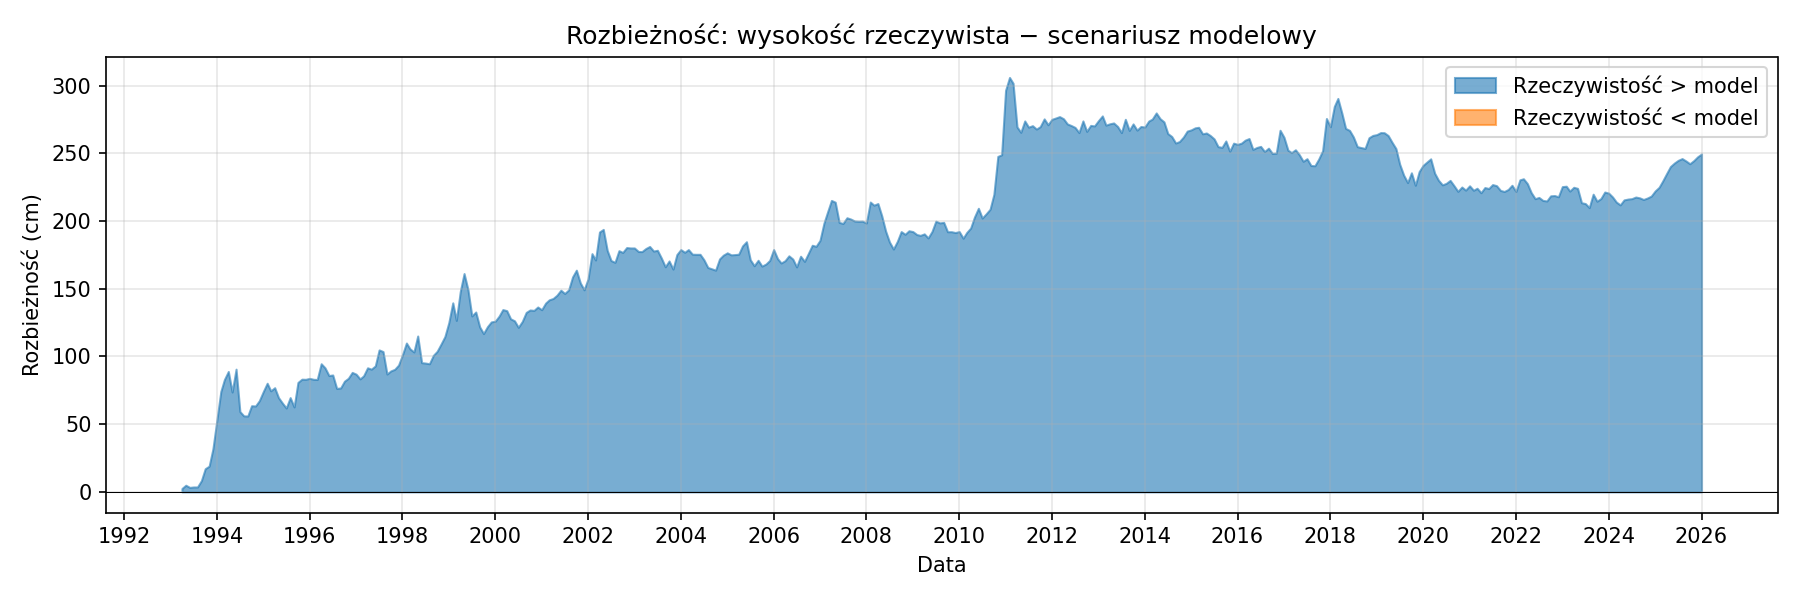
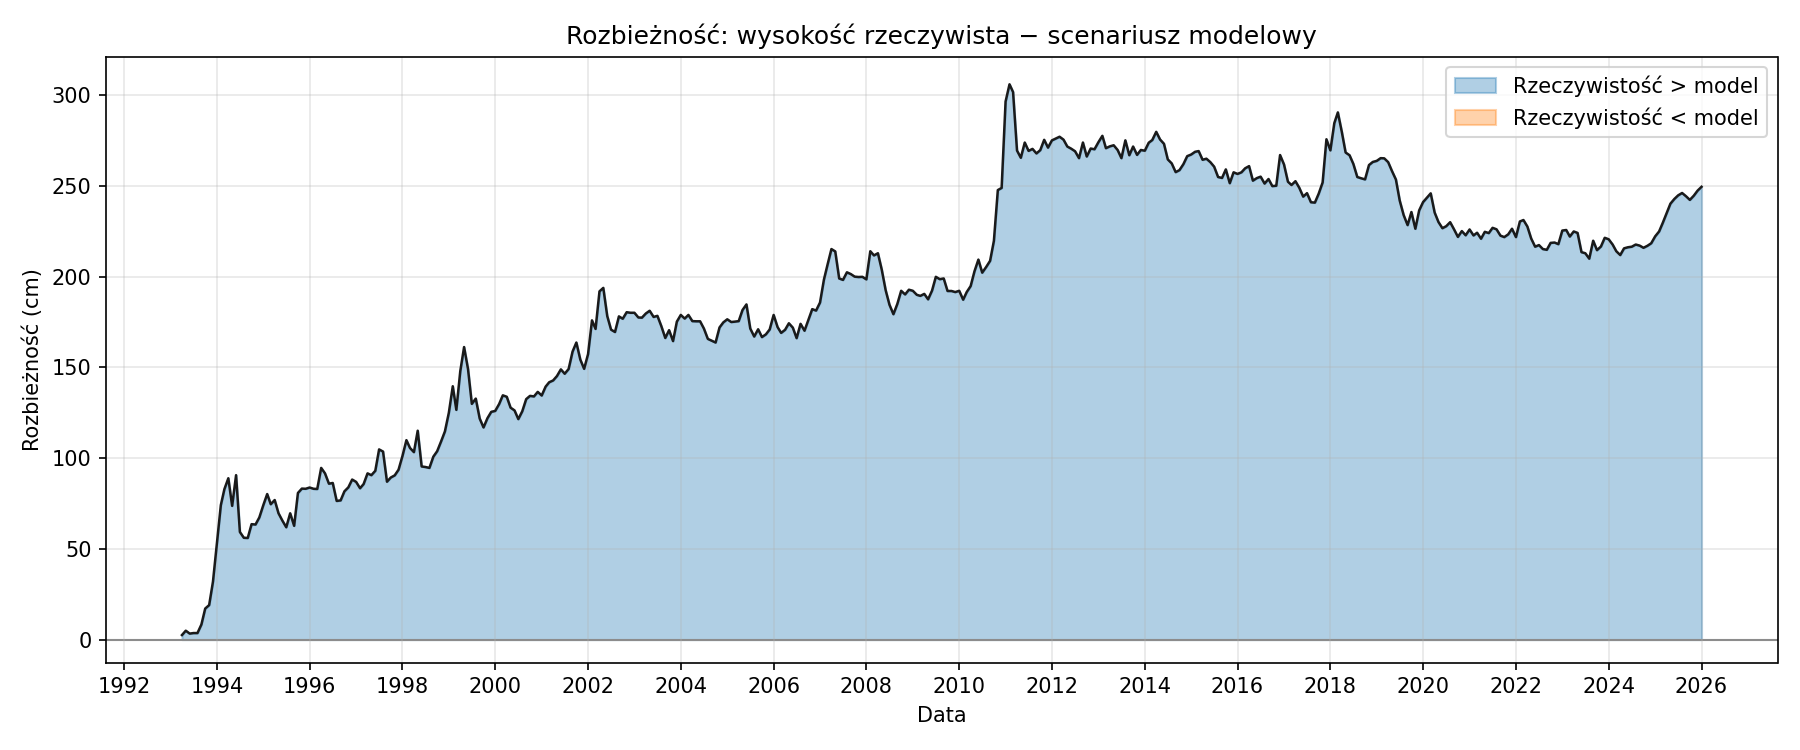
2026.02.15

diff --git a/index.html b/index.html
@@ -1930,7 +1930,7 @@ python sources/lake.py wilczynskie
 <li>Scenariusz kumulatywny (wysokość z prognozowanej zmiany) jest porównywany z rzeczywistą wysokością; rozbieżność i błąd miesięczny opisują jakość prognoz.</li>
 </ul>
 <p>Szczegóły techniczne: <a href="../model.md">model.md</a>, <a href="podsumowanie_ewaluacji.md">podsumowanie_ewaluacji.md</a>.</p>
-<p><em>Wygenerowano: 2026-02-15 15:38</em></p></div></div>
+<p><em>Wygenerowano: 2026-02-15 15:54</em></p></div></div>
 <div id="docs-budzislawskie-podsumowanie-ewaluacji" class="panel" style="display:none"><div class="content-inner"><h1>Podsumowanie ewaluacji prognozy zmiany poziomu Jezioro Budzisławskie</h1>
 <p>Dla każdego miesiąca model otrzymuje opad i temperaturę (oraz cechy opóźnione z historii), wylicza prognozowaną zmianę poziomu Jezioro Budzisławskie i jest ona porównana z faktyczną zmianą.</p>
 <h2>Metryki</h2>
@@ -6314,7 +6314,7 @@ python sources/lake.py wilczynskie
 </tr>
 </tbody>
 </table>
-<p><em>Wygenerowano: 2026-02-15 15:44</em></p></div></div>
+<p><em>Wygenerowano: 2026-02-15 15:54</em></p></div></div>
 <div id="docs-budzislawskie-drenaz-miesieczny" class="panel" style="display:none"><div class="content-inner"><h1>Drenaż – Jezioro Budzisławskie</h1>
 <p>Drenaż = poziom z modelu naturalnego (bez drenażu) − poziom rzeczywisty. Przyrost = o ile wzrósł drenaż względem poprzedniego miesiąca.</p>
 <p><img alt="Suma przyrostu drenażu wg roku" src="docs/budzislawskie/drenaz_miesieczny.png" /></p>
@@ -8000,7 +8000,7 @@ python sources/lake.py wilczynskie
 <li>Scenariusz kumulatywny (wysokość z prognozowanej zmiany) jest porównywany z rzeczywistą wysokością; rozbieżność i błąd miesięczny opisują jakość prognoz.</li>
 </ul>
 <p>Szczegóły techniczne: <a href="../model.md">model.md</a>, <a href="podsumowanie_ewaluacji.md">podsumowanie_ewaluacji.md</a>.</p>
-<p><em>Wygenerowano: 2026-02-15 15:38</em></p></div></div>
+<p><em>Wygenerowano: 2026-02-15 15:54</em></p></div></div>
 <div id="docs-kozieglowskie-podsumowanie-ewaluacji" class="panel" style="display:none"><div class="content-inner"><h1>Podsumowanie ewaluacji prognozy zmiany poziomu Jezioro Koziegłowskie</h1>
 <p>Dla każdego miesiąca model otrzymuje opad i temperaturę (oraz cechy opóźnione z historii), wylicza prognozowaną zmianę poziomu Jezioro Koziegłowskie i jest ona porównana z faktyczną zmianą.</p>
 <h2>Metryki</h2>
@@ -11966,7 +11966,7 @@ python sources/lake.py wilczynskie
 </tr>
 </tbody>
 </table>
-<p><em>Wygenerowano: 2026-02-15 15:44</em></p></div></div>
+<p><em>Wygenerowano: 2026-02-15 15:54</em></p></div></div>
 <div id="docs-kozieglowskie-drenaz-miesieczny" class="panel" style="display:none"><div class="content-inner"><h1>Drenaż – Jezioro Koziegłowskie</h1>
 <p>Drenaż = poziom z modelu naturalnego (bez drenażu) − poziom rzeczywisty. Przyrost = o ile wzrósł drenaż względem poprzedniego miesiąca.</p>
 <p><img alt="Suma przyrostu drenażu wg roku" src="docs/kozieglowskie/drenaz_miesieczny.png" /></p>
@@ -13640,7 +13640,7 @@ python sources/lake.py wilczynskie
 <li>Scenariusz kumulatywny (wysokość z prognozowanej zmiany) jest porównywany z rzeczywistą wysokością; rozbieżność i błąd miesięczny opisują jakość prognoz.</li>
 </ul>
 <p>Szczegóły techniczne: <a href="../model.md">model.md</a>, <a href="podsumowanie_ewaluacji.md">podsumowanie_ewaluacji.md</a>.</p>
-<p><em>Wygenerowano: 2026-02-15 15:38</em></p></div></div>
+<p><em>Wygenerowano: 2026-02-15 15:54</em></p></div></div>
 <div id="docs-kownackie-podsumowanie-ewaluacji" class="panel" style="display:none"><div class="content-inner"><h1>Podsumowanie ewaluacji prognozy zmiany poziomu Jezioro Kownackie</h1>
 <p>Dla każdego miesiąca model otrzymuje opad i temperaturę (oraz cechy opóźnione z historii), wylicza prognozowaną zmianę poziomu Jezioro Kownackie i jest ona porównana z faktyczną zmianą.</p>
 <h2>Metryki</h2>
@@ -18002,7 +18002,7 @@ python sources/lake.py wilczynskie
 </tr>
 </tbody>
 </table>
-<p><em>Wygenerowano: 2026-02-15 15:44</em></p></div></div>
+<p><em>Wygenerowano: 2026-02-15 15:54</em></p></div></div>
 <div id="docs-kownackie-drenaz-miesieczny" class="panel" style="display:none"><div class="content-inner"><h1>Drenaż – Jezioro Kownackie</h1>
 <p>Drenaż = poziom z modelu naturalnego (bez drenażu) − poziom rzeczywisty. Przyrost = o ile wzrósł drenaż względem poprzedniego miesiąca.</p>
 <p><img alt="Suma przyrostu drenażu wg roku" src="docs/kownackie/drenaz_miesieczny.png" /></p>
@@ -19688,7 +19688,7 @@ python sources/lake.py wilczynskie
 <li>Scenariusz kumulatywny (wysokość z prognozowanej zmiany) jest porównywany z rzeczywistą wysokością; rozbieżność i błąd miesięczny opisują jakość prognoz.</li>
 </ul>
 <p>Szczegóły techniczne: <a href="../model.md">model.md</a>, <a href="podsumowanie_ewaluacji.md">podsumowanie_ewaluacji.md</a>.</p>
-<p><em>Wygenerowano: 2026-02-15 15:38</em></p></div></div>
+<p><em>Wygenerowano: 2026-02-15 15:54</em></p></div></div>
 <div id="docs-niedziegiel-podsumowanie-ewaluacji" class="panel" style="display:none"><div class="content-inner"><h1>Podsumowanie ewaluacji prognozy zmiany poziomu Jezioro Niedzięgiel</h1>
 <p>Dla każdego miesiąca model otrzymuje opad i temperaturę (oraz cechy opóźnione z historii), wylicza prognozowaną zmianę poziomu Jezioro Niedzięgiel i jest ona porównana z faktyczną zmianą.</p>
 <h2>Metryki</h2>
@@ -26294,7 +26294,7 @@ python sources/lake.py wilczynskie
 </tr>
 </tbody>
 </table>
-<p><em>Wygenerowano: 2026-02-15 15:44</em></p></div></div>
+<p><em>Wygenerowano: 2026-02-15 15:54</em></p></div></div>
 <div id="docs-niedziegiel-drenaz-miesieczny" class="panel" style="display:none"><div class="content-inner"><h1>Drenaż – Jezioro Niedzięgiel</h1>
 <p>Drenaż = poziom z modelu naturalnego (bez drenażu) − poziom rzeczywisty. Przyrost = o ile wzrósł drenaż względem poprzedniego miesiąca.</p>
 <p><img alt="Suma przyrostu drenażu wg roku" src="docs/niedziegiel/drenaz_miesieczny.png" /></p>
@@ -28048,7 +28048,7 @@ python sources/lake.py wilczynskie
 <li>Scenariusz kumulatywny (wysokość z prognozowanej zmiany) jest porównywany z rzeczywistą wysokością; rozbieżność i błąd miesięczny opisują jakość prognoz.</li>
 </ul>
 <p>Szczegóły techniczne: <a href="../model.md">model.md</a>, <a href="podsumowanie_ewaluacji.md">podsumowanie_ewaluacji.md</a>.</p>
-<p><em>Wygenerowano: 2026-02-15 15:38</em></p></div></div>
+<p><em>Wygenerowano: 2026-02-15 15:54</em></p></div></div>
 <div id="docs-ostrowskie-podsumowanie-ewaluacji" class="panel" style="display:none"><div class="content-inner"><h1>Podsumowanie ewaluacji prognozy zmiany poziomu Jezioro Ostrowskie</h1>
 <p>Dla każdego miesiąca model otrzymuje opad i temperaturę (oraz cechy opóźnione z historii), wylicza prognozowaną zmianę poziomu Jezioro Ostrowskie i jest ona porównana z faktyczną zmianą.</p>
 <h2>Metryki</h2>
@@ -32432,7 +32432,7 @@ python sources/lake.py wilczynskie
 </tr>
 </tbody>
 </table>
-<p><em>Wygenerowano: 2026-02-15 15:44</em></p></div></div>
+<p><em>Wygenerowano: 2026-02-15 15:54</em></p></div></div>
 <div id="docs-ostrowskie-drenaz-miesieczny" class="panel" style="display:none"><div class="content-inner"><h1>Drenaż – Jezioro Ostrowskie</h1>
 <p>Drenaż = poziom z modelu naturalnego (bez drenażu) − poziom rzeczywisty. Przyrost = o ile wzrósł drenaż względem poprzedniego miesiąca.</p>
 <p><img alt="Suma przyrostu drenażu wg roku" src="docs/ostrowskie/drenaz_miesieczny.png" /></p>
@@ -34118,7 +34118,7 @@ python sources/lake.py wilczynskie
 <li>Scenariusz kumulatywny (wysokość z prognozowanej zmiany) jest porównywany z rzeczywistą wysokością; rozbieżność i błąd miesięczny opisują jakość prognoz.</li>
 </ul>
 <p>Szczegóły techniczne: <a href="../model.md">model.md</a>, <a href="podsumowanie_ewaluacji.md">podsumowanie_ewaluacji.md</a>.</p>
-<p><em>Wygenerowano: 2026-02-15 15:38</em></p></div></div>
+<p><em>Wygenerowano: 2026-02-15 15:54</em></p></div></div>
 <div id="docs-powidzkie-podsumowanie-ewaluacji" class="panel" style="display:none"><div class="content-inner"><h1>Podsumowanie ewaluacji prognozy zmiany poziomu Jezioro Powidzkie</h1>
 <p>Dla każdego miesiąca model otrzymuje opad i temperaturę (oraz cechy opóźnione z historii), wylicza prognozowaną zmianę poziomu Jezioro Powidzkie i jest ona porównana z faktyczną zmianą.</p>
 <h2>Metryki</h2>
@@ -40702,7 +40702,7 @@ python sources/lake.py wilczynskie
 </tr>
 </tbody>
 </table>
-<p><em>Wygenerowano: 2026-02-15 15:45</em></p></div></div>
+<p><em>Wygenerowano: 2026-02-15 15:54</em></p></div></div>
 <div id="docs-powidzkie-drenaz-miesieczny" class="panel" style="display:none"><div class="content-inner"><h1>Drenaż – Jezioro Powidzkie</h1>
 <p>Drenaż = poziom z modelu naturalnego (bez drenażu) − poziom rzeczywisty. Przyrost = o ile wzrósł drenaż względem poprzedniego miesiąca.</p>
 <p><img alt="Suma przyrostu drenażu wg roku" src="docs/powidzkie/drenaz_miesieczny.png" /></p>
@@ -42452,7 +42452,7 @@ python sources/lake.py wilczynskie
 <li>Scenariusz kumulatywny (wysokość z prognozowanej zmiany) jest porównywany z rzeczywistą wysokością; rozbieżność i błąd miesięczny opisują jakość prognoz.</li>
 </ul>
 <p>Szczegóły techniczne: <a href="../model.md">model.md</a>, <a href="podsumowanie_ewaluacji.md">podsumowanie_ewaluacji.md</a>.</p>
-<p><em>Wygenerowano: 2026-02-15 15:38</em></p></div></div>
+<p><em>Wygenerowano: 2026-02-15 15:54</em></p></div></div>
 <div id="docs-skulskawies-podsumowanie-ewaluacji" class="panel" style="display:none"><div class="content-inner"><h1>Podsumowanie ewaluacji prognozy zmiany poziomu Jezioro Skulska Wieś</h1>
 <p>Dla każdego miesiąca model otrzymuje opad i temperaturę (oraz cechy opóźnione z historii), wylicza prognozowaną zmianę poziomu Jezioro Skulska Wieś i jest ona porównana z faktyczną zmianą.</p>
 <h2>Metryki</h2>
@@ -46836,7 +46836,7 @@ python sources/lake.py wilczynskie
 </tr>
 </tbody>
 </table>
-<p><em>Wygenerowano: 2026-02-15 15:45</em></p></div></div>
+<p><em>Wygenerowano: 2026-02-15 15:54</em></p></div></div>
 <div id="docs-skulskawies-drenaz-miesieczny" class="panel" style="display:none"><div class="content-inner"><h1>Drenaż – Jezioro Skulska Wieś</h1>
 <p>Drenaż = poziom z modelu naturalnego (bez drenażu) − poziom rzeczywisty. Przyrost = o ile wzrósł drenaż względem poprzedniego miesiąca.</p>
 <p><img alt="Suma przyrostu drenażu wg roku" src="docs/skulskawies/drenaz_miesieczny.png" /></p>
@@ -48522,7 +48522,7 @@ python sources/lake.py wilczynskie
 <li>Scenariusz kumulatywny (wysokość z prognozowanej zmiany) jest porównywany z rzeczywistą wysokością; rozbieżność i błąd miesięczny opisują jakość prognoz.</li>
 </ul>
 <p>Szczegóły techniczne: <a href="../model.md">model.md</a>, <a href="podsumowanie_ewaluacji.md">podsumowanie_ewaluacji.md</a>.</p>
-<p><em>Wygenerowano: 2026-02-15 15:38</em></p></div></div>
+<p><em>Wygenerowano: 2026-02-15 15:54</em></p></div></div>
 <div id="docs-suszewskie-podsumowanie-ewaluacji" class="panel" style="display:none"><div class="content-inner"><h1>Podsumowanie ewaluacji prognozy zmiany poziomu Jezioro Suszewskie</h1>
 <p>Dla każdego miesiąca model otrzymuje opad i temperaturę (oraz cechy opóźnione z historii), wylicza prognozowaną zmianę poziomu Jezioro Suszewskie i jest ona porównana z faktyczną zmianą.</p>
 <h2>Metryki</h2>
@@ -52664,7 +52664,7 @@ python sources/lake.py wilczynskie
 </tr>
 </tbody>
 </table>
-<p><em>Wygenerowano: 2026-02-15 15:45</em></p></div></div>
+<p><em>Wygenerowano: 2026-02-15 15:54</em></p></div></div>
 <div id="docs-suszewskie-drenaz-miesieczny" class="panel" style="display:none"><div class="content-inner"><h1>Drenaż – Jezioro Suszewskie</h1>
 <p>Drenaż = poziom z modelu naturalnego (bez drenażu) − poziom rzeczywisty. Przyrost = o ile wzrósł drenaż względem poprzedniego miesiąca.</p>
 <p><img alt="Suma przyrostu drenażu wg roku" src="docs/suszewskie/drenaz_miesieczny.png" /></p>
@@ -54342,7 +54342,7 @@ python sources/lake.py wilczynskie
 <li>Scenariusz kumulatywny (wysokość z prognozowanej zmiany) jest porównywany z rzeczywistą wysokością; rozbieżność i błąd miesięczny opisują jakość prognoz.</li>
 </ul>
 <p>Szczegóły techniczne: <a href="../model.md">model.md</a>, <a href="podsumowanie_ewaluacji.md">podsumowanie_ewaluacji.md</a>.</p>
-<p><em>Wygenerowano: 2026-02-15 15:38</em></p></div></div>
+<p><em>Wygenerowano: 2026-02-15 15:54</em></p></div></div>
 <div id="docs-wilczynskie-podsumowanie-ewaluacji" class="panel" style="display:none"><div class="content-inner"><h1>Podsumowanie ewaluacji prognozy zmiany poziomu Jezioro Wilczyńskie</h1>
 <p>Dla każdego miesiąca model otrzymuje opad i temperaturę (oraz cechy opóźnione z historii), wylicza prognozowaną zmianę poziomu Jezioro Wilczyńskie i jest ona porównana z faktyczną zmianą.</p>
 <h2>Metryki</h2>
@@ -58726,7 +58726,7 @@ python sources/lake.py wilczynskie
 </tr>
 </tbody>
 </table>
-<p><em>Wygenerowano: 2026-02-15 15:45</em></p></div></div>
+<p><em>Wygenerowano: 2026-02-15 15:54</em></p></div></div>
 <div id="docs-wilczynskie-drenaz-miesieczny" class="panel" style="display:none"><div class="content-inner"><h1>Drenaż – Jezioro Wilczyńskie</h1>
 <p>Drenaż = poziom z modelu naturalnego (bez drenażu) − poziom rzeczywisty. Przyrost = o ile wzrósł drenaż względem poprzedniego miesiąca.</p>
 <p><img alt="Suma przyrostu drenażu wg roku" src="docs/wilczynskie/drenaz_miesieczny.png" /></p>

diff --git a/sources/generate_report.py b/sources/generate_report.py
@@ -62,10 +62,14 @@ def _plot_wysokosci(rows, figs_dir, lake_name, lake_id, rows_natural=None):
 def _plot_rozbieznosc(rows, figs_dir):
     dates = [np.datetime64(r["data"] + "-01") for r in rows]
     rozb = [r["rozbieznosc"] * 100 for r in rows]
-    fig, ax = plt.subplots(figsize=(12, 4))
-    ax.fill_between(dates, 0, rozb, where=[x >= 0 for x in rozb], color="#1f77b4", alpha=0.6, label="Rzeczywistość > model")
-    ax.fill_between(dates, 0, rozb, where=[x < 0 for x in rozb], color="#ff7f0e", alpha=0.6, label="Rzeczywistość < model")
-    ax.axhline(y=0, color="black", linewidth=0.5)
+    fig, ax = plt.subplots(figsize=(12, 5))
+    ax.fill_between(dates, 0, rozb, where=[x >= 0 for x in rozb], color="#1f77b4", alpha=0.35, label="Rzeczywistość > model")
+    ax.fill_between(dates, 0, rozb, where=[x < 0 for x in rozb], color="#ff7f0e", alpha=0.35, label="Rzeczywistość < model")
+    ax.plot(dates, rozb, color="#1a1a1a", linewidth=1.2, zorder=2)
+    ax.axhline(y=0, color="gray", linewidth=1, linestyle="-", zorder=1)
+    y_min, y_max = min(rozb), max(rozb)
+    margin = max(10, (y_max - y_min) * 0.05) if y_max > y_min else 10
+    ax.set_ylim(y_min - margin, y_max + margin)
     ax.set_xlabel("Data")
     ax.set_ylabel("Rozbieżność (cm)")
     ax.set_title("Rozbieżność: wysokość rzeczywista − scenariusz modelowy")

diff --git a/docs/kozieglowskie/podsumowanie_ewaluacji.md b/docs/kozieglowskie/podsumowanie_ewaluacji.md
@@ -372,4 +372,4 @@ Dla każdego miesiąca model otrzymuje opad i temperaturę (oraz cechy opóźnio
 | 2025-12 | 13.0 | 2.4 | +4.4 | +2.2 | +2.2 | 101.003 | 100.188 | +81.5 |
 | 2026-01 | 17.3 | -2.5 | +7.8 | +3.6 | +4.2 | 101.081 | 100.225 | +85.6 |
 
-*Wygenerowano: 2026-02-15 15:44*
+*Wygenerowano: 2026-02-15 15:54*

diff --git a/docs/kozieglowskie/podsumowanie_ewaluacji_natural.md b/docs/kozieglowskie/podsumowanie_ewaluacji_natural.md
@@ -374,4 +374,4 @@ Dla każdego miesiąca model otrzymuje opad i temperaturę (oraz cechy opóźnio
 | 2025-12 | 13.0 | 2.4 | +4.4 | +3.2 | +1.3 | 101.003 | 101.675 | -67.2 |
 | 2026-01 | 17.3 | -2.5 | +7.8 | +8.0 | -0.2 | 101.081 | 101.745 | -66.4 |
 
-*Wygenerowano: 2026-02-15 15:44*
+*Wygenerowano: 2026-02-15 15:54*

diff --git a/docs/budzislawskie/podsumowanie_ewaluacji_natural.md b/docs/budzislawskie/podsumowanie_ewaluacji_natural.md
@@ -410,4 +410,4 @@ Dla każdego miesiąca model otrzymuje opad i temperaturę (oraz cechy opóźnio
 | 2025-12 | 13.0 | 2.4 | +1.7 | +1.8 | -0.1 | 96.046 | 98.053 | -200.7 |
 | 2026-01 | 17.3 | -2.5 | +3.7 | +3.2 | +0.5 | 96.083 | 98.086 | -200.3 |
 
-*Wygenerowano: 2026-02-15 15:44*
+*Wygenerowano: 2026-02-15 15:54*

diff --git a/docs/kownackie/podsumowanie_ewaluacji.md b/docs/kownackie/podsumowanie_ewaluacji.md
@@ -408,4 +408,4 @@ Dla każdego miesiąca model otrzymuje opad i temperaturę (oraz cechy opóźnio
 | 2025-12 | 13.0 | 2.4 | +2.3 | -0.5 | +2.8 | 93.236 | 90.762 | +247.4 |
 | 2026-01 | 17.3 | -2.5 | +2.6 | +0.5 | +2.1 | 93.262 | 90.767 | +249.5 |
 
-*Wygenerowano: 2026-02-15 15:44*
+*Wygenerowano: 2026-02-15 15:54*

diff --git a/docs/kownackie/podsumowanie_ewaluacji_natural.md b/docs/kownackie/podsumowanie_ewaluacji_natural.md
@@ -410,4 +410,4 @@ Dla każdego miesiąca model otrzymuje opad i temperaturę (oraz cechy opóźnio
 | 2025-12 | 13.0 | 2.4 | +2.3 | +1.1 | +1.2 | 93.236 | 97.666 | -443.0 |
 | 2026-01 | 17.3 | -2.5 | +2.6 | +3.3 | -0.7 | 93.262 | 97.699 | -443.7 |
 
-*Wygenerowano: 2026-02-15 15:44*
+*Wygenerowano: 2026-02-15 15:54*

diff --git a/docs/niedziegiel/podsumowanie_ewaluacji.md b/docs/niedziegiel/podsumowanie_ewaluacji.md
@@ -612,4 +612,4 @@ Dla każdego miesiąca model otrzymuje opad i temperaturę (oraz cechy opóźnio
 | 2025-12 | 13.0 | 2.4 | +1.0 | +1.9 | -0.9 | 101.87 | 93.465 | +840.5 |
 | 2026-01 | 17.3 | -2.9 | +3.0 | +4.6 | -1.6 | 101.92 | 93.511 | +840.9 |
 
-*Wygenerowano: 2026-02-15 15:44*
+*Wygenerowano: 2026-02-15 15:54*

diff --git a/docs/niedziegiel/podsumowanie_ewaluacji_natural.md b/docs/niedziegiel/podsumowanie_ewaluacji_natural.md
@@ -612,4 +612,4 @@ Dla każdego miesiąca model otrzymuje opad i temperaturę (oraz cechy opóźnio
 | 2025-12 | 13.0 | 2.4 | +1.0 | +1.4 | -0.4 | 101.87 | 102.609 | -73.9 |
 | 2026-01 | 17.3 | -2.9 | +3.0 | +2.2 | +0.8 | 101.92 | 102.632 | -71.2 |
 
-*Wygenerowano: 2026-02-15 15:44*
+*Wygenerowano: 2026-02-15 15:54*

diff --git a/docs/ostrowskie/podsumowanie_ewaluacji.md b/docs/ostrowskie/podsumowanie_ewaluacji.md
@@ -410,4 +410,4 @@ Dla każdego miesiąca model otrzymuje opad i temperaturę (oraz cechy opóźnio
 | 2025-12 | 13.0 | 2.4 | -0.9 | -1.4 | +0.5 | 94.685 | 92.793 | +189.2 |
 | 2026-01 | 17.3 | -2.5 | +1.1 | +1.2 | -0.1 | 94.696 | 92.806 | +189.0 |
 
-*Wygenerowano: 2026-02-15 15:44*
+*Wygenerowano: 2026-02-15 15:54*

diff --git a/docs/ostrowskie/podsumowanie_ewaluacji_natural.md b/docs/ostrowskie/podsumowanie_ewaluacji_natural.md
@@ -410,4 +410,4 @@ Dla każdego miesiąca model otrzymuje opad i temperaturę (oraz cechy opóźnio
 | 2025-12 | 13.0 | 2.4 | -0.9 | +0.0 | -1.0 | 94.685 | 97.879 | -319.4 |
 | 2026-01 | 17.3 | -2.5 | +1.1 | +0.8 | +0.3 | 94.696 | 97.887 | -319.1 |
 
-*Wygenerowano: 2026-02-15 15:44*
+*Wygenerowano: 2026-02-15 15:54*

diff --git a/docs/powidzkie/podsumowanie_ewaluacji.md b/docs/powidzkie/podsumowanie_ewaluacji.md
@@ -610,4 +610,4 @@ Dla każdego miesiąca model otrzymuje opad i temperaturę (oraz cechy opóźnio
 | 2025-12 | 13.0 | 2.4 | +4.3 | +5.2 | -0.9 | 97.768 | 93.784 | +398.4 |
 | 2026-01 | 17.3 | -2.5 | +3.4 | +4.3 | -0.9 | 97.802 | 93.827 | +397.5 |
 
-*Wygenerowano: 2026-02-15 15:45*
+*Wygenerowano: 2026-02-15 15:54*
